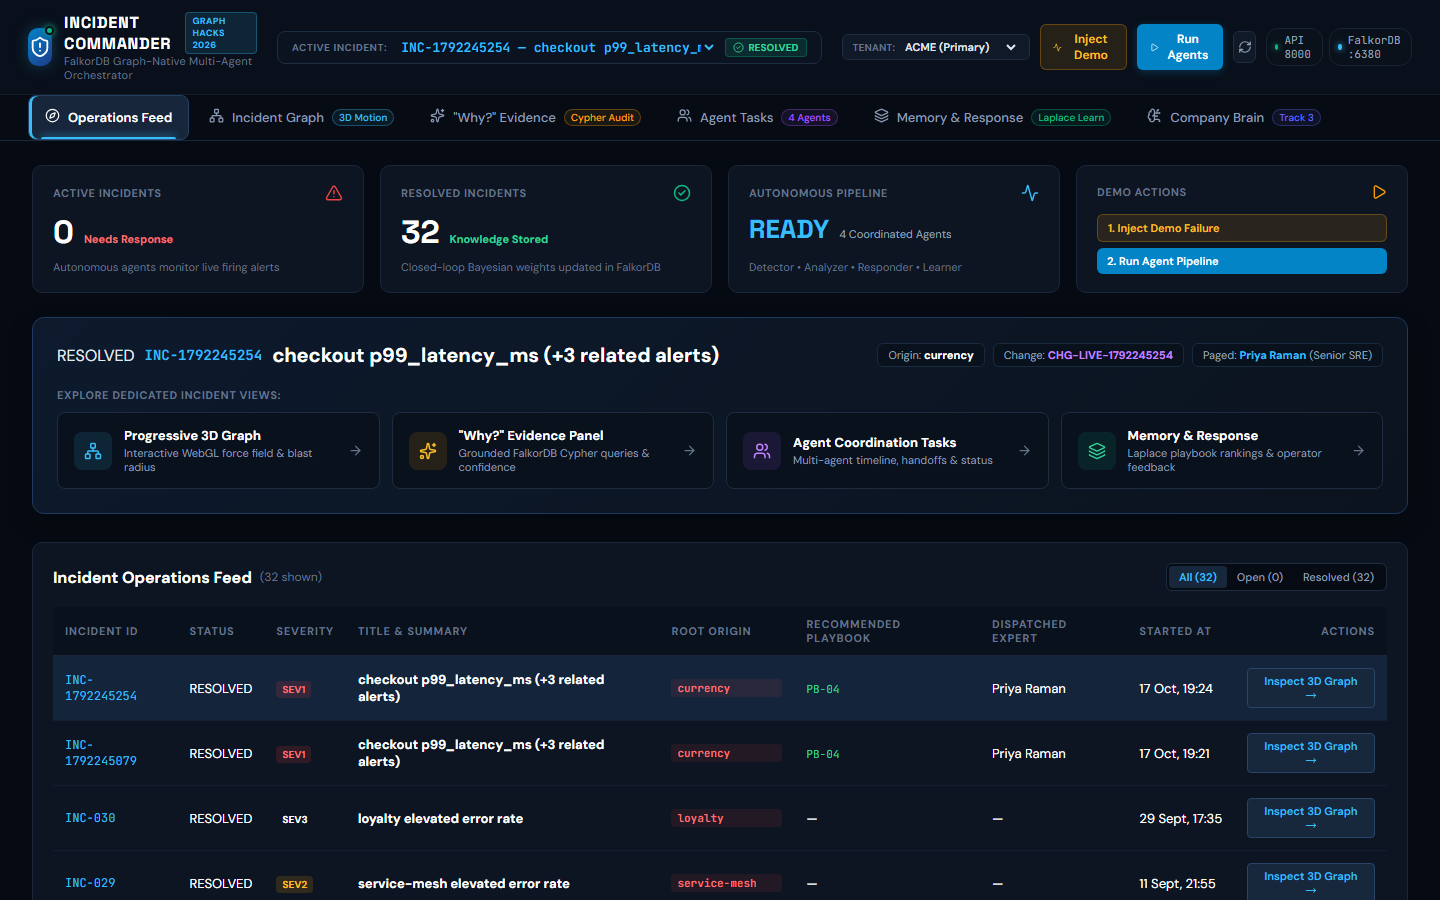
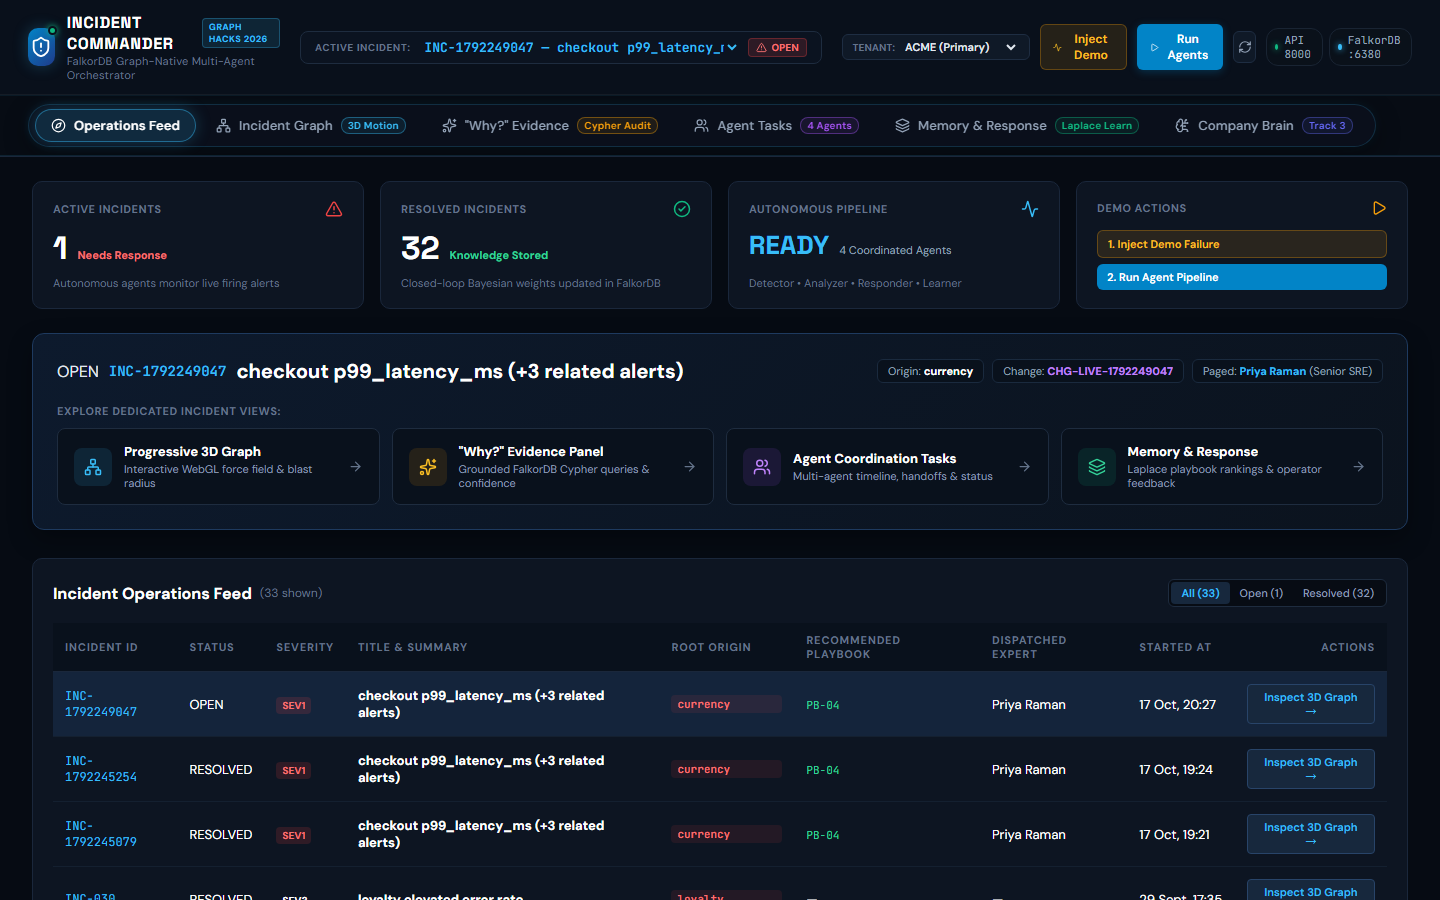
feat(ui): integrate Framer FloatingPillNavigation with animated spring physics
- Adapted Framer FloatingPillNavigation component from framer.com/m/FloatingPillNavigation-s92k8M.js@qwsogf78G8HhJg4I53jE
- Added framer-motion dependency for spring-physics layoutId animations
- Built FloatingPillNavigation.tsx with auto-calculating pill border radius and spring dynamics
- Upgraded global Header navigation with smooth floating pill tab switching across all dedicated pages
- Updated live Playwright walkthrough screenshots

diff --git a/frontend/src/components/FloatingPillNavigation.tsx b/frontend/src/components/FloatingPillNavigation.tsx
@@ -1,0 +1,196 @@
+import React, { useRef, useEffect, useState, startTransition } from 'react'
+import { motion, type Transition } from 'framer-motion'
+import type { PageRoute } from '../types'
+
+export interface FloatingPillItem {
+  id: PageRoute
+  label: string
+  icon?: React.ReactNode
+  badge?: string
+  badgeColor?: string
+}
+
+interface FloatingPillNavigationProps {
+  items: FloatingPillItem[]
+  activeRoute: PageRoute
+  onNavigate: (route: PageRoute) => void
+  backgroundColor?: string
+  textColor?: string
+  activeBackgroundColor?: string
+  activeTextColor?: string
+  padding?: number | string
+  gap?: number | string
+  linkPadding?: string
+  transition?: Transition
+  className?: string
+}
+
+/**
+ * FloatingPillNavigation
+ * Adapted from Framer FloatingPillNavigation component:
+ * https://framer.com/m/FloatingPillNavigation-s92k8M.js@qwsogf78G8HhJg4I53jE
+ *
+ * Pill-shaped floating navigation with animated physics spring background
+ * that shifts smoothly between active sections.
+ */
+export const FloatingPillNavigation: React.FC<FloatingPillNavigationProps> = ({
+  items,
+  activeRoute,
+  onNavigate,
+  backgroundColor = 'rgba(10, 17, 28, 0.85)',
+  textColor = '#94a3b8',
+  activeBackgroundColor = 'rgba(56, 189, 248, 0.16)',
+  activeTextColor = '#ffffff',
+  padding = '4px 6px',
+  gap = '4px',
+  linkPadding = '8px 16px',
+  transition = { type: 'spring', stiffness: 750, damping: 52, mass: 0.9 },
+  className = '',
+}) => {
+  const [internalActiveRoute, setInternalActiveRoute] = useState<PageRoute>(activeRoute)
+  const navRef = useRef<HTMLElement | null>(null)
+  const linkRef = useRef<HTMLDivElement | null>(null)
+  const [navBorderRadius, setNavBorderRadius] = useState<number>(9999)
+  const [linkBorderRadius, setLinkBorderRadius] = useState<number>(9999)
+
+  // Sync internal state when activeRoute prop changes
+  useEffect(() => {
+    startTransition(() => {
+      setInternalActiveRoute(activeRoute)
+    })
+  }, [activeRoute])
+
+  // Calculate border radii based on heights
+  useEffect(() => {
+    const updateBorderRadii = () => {
+      if (navRef.current) {
+        const navHeight = navRef.current.offsetHeight
+        setNavBorderRadius(navHeight / 2)
+      }
+      if (linkRef.current) {
+        const linkHeight = linkRef.current.offsetHeight
+        setLinkBorderRadius(linkHeight / 2)
+      }
+    }
+    updateBorderRadii()
+
+    const resizeObserver = new ResizeObserver(updateBorderRadii)
+    if (navRef.current) resizeObserver.observe(navRef.current)
+    if (linkRef.current) resizeObserver.observe(linkRef.current)
+    return () => resizeObserver.disconnect()
+  }, [linkPadding, items])
+
+  const handleClick = (id: PageRoute) => {
+    startTransition(() => {
+      setInternalActiveRoute(id)
+    })
+    onNavigate(id)
+  }
+
+  return (
+    <nav
+      ref={navRef}
+      className={`floating-pill-nav ${className}`}
+      style={{
+        display: 'inline-flex',
+        alignItems: 'center',
+        backgroundColor,
+        borderRadius: navBorderRadius,
+        padding,
+        gap,
+        position: 'relative',
+        width: 'max-content',
+        userSelect: 'none',
+        WebkitUserSelect: 'none',
+        backdropFilter: 'blur(16px)',
+        border: '1px solid rgba(56, 189, 248, 0.18)',
+        boxShadow: '0 8px 24px rgba(0, 0, 0, 0.4), 0 0 12px rgba(56, 189, 248, 0.08)',
+      }}
+      aria-label="Floating Pill Navigation"
+    >
+      {items.map((item, index) => {
+        const isActive = item.id === internalActiveRoute
+
+        return (
+          <div
+            key={item.id}
+            ref={index === 0 ? linkRef : null}
+            onClick={() => handleClick(item.id)}
+            onKeyDown={(e) => {
+              if (e.key === 'Enter' || e.key === ' ') {
+                e.preventDefault()
+                handleClick(item.id)
+              }
+            }}
+            role="button"
+            tabIndex={0}
+            aria-current={isActive ? 'page' : undefined}
+            className={`floating-pill-item ${isActive ? 'active' : ''}`}
+            style={{
+              position: 'relative',
+              display: 'inline-flex',
+              alignItems: 'center',
+              gap: '8px',
+              padding: linkPadding,
+              textDecoration: 'none',
+              color: isActive ? activeTextColor : textColor,
+              cursor: 'pointer',
+              zIndex: 1,
+              transition: 'color 0.25s ease',
+              fontSize: '13px',
+              fontWeight: isActive ? 600 : 500,
+              letterSpacing: '0.01em',
+              whiteSpace: 'nowrap',
+            }}
+          >
+            {/* Animated Active Background shifting with Spring Physics */}
+            {isActive && (
+              <motion.div
+                layoutId="floatingPillActiveBg"
+                style={{
+                  position: 'absolute',
+                  top: 0,
+                  left: 0,
+                  right: 0,
+                  bottom: 0,
+                  backgroundColor: activeBackgroundColor,
+                  borderRadius: linkBorderRadius,
+                  border: '1px solid rgba(56, 189, 248, 0.45)',
+                  boxShadow: '0 0 16px rgba(56, 189, 248, 0.25)',
+                  zIndex: -1,
+                }}
+                transition={transition}
+              />
+            )}
+
+            {/* Icon */}
+            {item.icon && <span className="pill-item-icon">{item.icon}</span>}
+
+            {/* Label */}
+            <span className="pill-item-label">{item.label}</span>
+
+            {/* Badge */}
+            {item.badge && (
+              <span
+                className="pill-item-badge"
+                style={{
+                  fontSize: '10px',
+                  padding: '1px 6px',
+                  borderRadius: '8px',
+                  border: '1px solid',
+                  borderColor: item.badgeColor ? `${item.badgeColor}66` : 'rgba(148, 163, 184, 0.3)',
+                  color: item.badgeColor || '#94a3b8',
+                  background: item.badgeColor ? `${item.badgeColor}18` : 'rgba(255, 255, 255, 0.05)',
+                  fontWeight: 600,
+                  letterSpacing: '0.02em',
+                }}
+              >
+                {item.badge}
+              </span>
+            )}
+          </div>
+        )
+      })}
+    </nav>
+  )
+}

diff --git a/frontend/src/components/Header.tsx b/frontend/src/components/Header.tsx
@@ -4,6 +4,7 @@ import {
   Layers, BrainCircuit, Users, Network, Compass, CheckCircle2, AlertTriangle
 } from 'lucide-react'
 import type { IncidentSummary, PageRoute } from '../types'
+import { FloatingPillNavigation, type FloatingPillItem } from './FloatingPillNavigation'
 
 interface HeaderProps {
   currentRoute: PageRoute
@@ -40,7 +41,7 @@ export const Header: React.FC<HeaderProps> = ({
 }) => {
   const selectedIncident = incidents.find(i => i.id === selectedIncidentId)
 
-  const navItems: Array<{ id: PageRoute; label: string; icon: React.ReactNode; badge?: string; badgeColor?: string }> = [
+  const navItems: FloatingPillItem[] = [
     { id: 'overview', label: 'Operations Feed', icon: <Compass size={15} /> },
     { id: 'graph', label: 'Incident Graph', icon: <Network size={15} />, badge: '3D Motion', badgeColor: '#38bdf8' },
     { id: 'why', label: '"Why?" Evidence', icon: <Sparkles size={15} />, badge: 'Cypher Audit', badgeColor: '#f59e0b' },
@@ -166,38 +167,14 @@ export const Header: React.FC<HeaderProps> = ({
         </div>
       </div>
 
-      {/* Bottom Bar: Dedicated Page Navigation Tabs */}
-      <nav className="header-nav-bar" aria-label="Incident Sections">
-        <div className="header-nav-list">
-          {navItems.map((item) => {
-            const isActive = currentRoute === item.id
-            return (
-              <button
-                key={item.id}
-                type="button"
-                className={`nav-tab-btn ${isActive ? 'active' : ''}`}
-                onClick={() => onNavigate(item.id)}
-              >
-                <span className="nav-tab-icon">{item.icon}</span>
-                <span className="nav-tab-label">{item.label}</span>
-                {item.badge && (
-                  <span
-                    className="nav-tab-badge"
-                    style={{
-                      borderColor: item.badgeColor ? `${item.badgeColor}55` : undefined,
-                      color: item.badgeColor || '#94a3b8',
-                      background: item.badgeColor ? `${item.badgeColor}15` : undefined,
-                    }}
-                  >
-                    {item.badge}
-                  </span>
-                )}
-                {isActive && <div className="nav-tab-active-indicator" />}
-              </button>
-            )
-          })}
-        </div>
-      </nav>
+      {/* Bottom Bar: Framer Floating Pill Navigation */}
+      <div className="header-nav-bar-wrapper">
+        <FloatingPillNavigation
+          items={navItems}
+          activeRoute={currentRoute}
+          onNavigate={onNavigate}
+        />
+      </div>
     </header>
   )
 }

diff --git a/frontend/src/App.css b/frontend/src/App.css
@@ -1753,59 +1753,49 @@ tr:hover td {
   box-shadow: 0 0 6px #ef4444;
 }
 
-/* Header Navigation Bar (Tabs) */
-.header-nav-bar {
+/* Header Navigation Bar (Framer Floating Pill Container) */
+.header-nav-bar-wrapper {
   display: flex;
-  padding: 0 28px;
+  align-items: center;
+  justify-content: flex-start;
+  padding: 8px 28px;
   background: #070c14;
+  border-top: 1px solid rgba(56, 189, 248, 0.08);
+  border-bottom: 1px solid rgba(56, 189, 248, 0.12);
   overflow-x: auto;
+  scrollbar-width: none;
 }
 
-.header-nav-list {
-  display: flex;
-  gap: 4px;
+.header-nav-bar-wrapper::-webkit-scrollbar {
+  display: none;
 }
 
-.nav-tab-btn {
+.floating-pill-nav {
+  transition: box-shadow 0.25s ease, border-color 0.25s ease;
+}
+
+.floating-pill-nav:hover {
+  border-color: rgba(56, 189, 248, 0.35) !important;
+  box-shadow: 0 10px 30px rgba(0, 0, 0, 0.5), 0 0 18px rgba(56, 189, 248, 0.14) !important;
+}
+
+.floating-pill-item {
+  outline: none;
+  border-radius: 9999px;
+}
+
+.floating-pill-item:hover:not(.active) {
+  color: #e2e8f0 !important;
+}
+
+.floating-pill-item:focus-visible {
+  box-shadow: 0 0 0 2px rgba(56, 189, 248, 0.6);
+}
+
+.floating-pill-item .pill-item-icon {
   display: inline-flex;
   align-items: center;
-  gap: 8px;
-  padding: 12px 16px;
-  color: #8b9bb4;
-  font-size: 13px;
-  font-weight: 500;
-  position: relative;
-  background: transparent;
-  border: none;
-  transition: all 0.15s ease;
-  white-space: nowrap;
-}
-
-.nav-tab-btn:hover {
-  color: #e2e8f0;
-}
-
-.nav-tab-btn.active {
-  color: #ffffff;
-  font-weight: 600;
-}
-
-.nav-tab-badge {
-  font-size: 10px;
-  padding: 1px 6px;
-  border-radius: 10px;
-  border: 1px solid;
-}
-
-.nav-tab-active-indicator {
-  position: absolute;
-  bottom: 0;
-  left: 12px;
-  right: 12px;
-  height: 2px;
-  background: #38bdf8;
-  box-shadow: 0 0 8px #38bdf8;
-  border-radius: 2px 2px 0 0;
+  justify-content: center;
 }
 
 /* Notice Bar */
